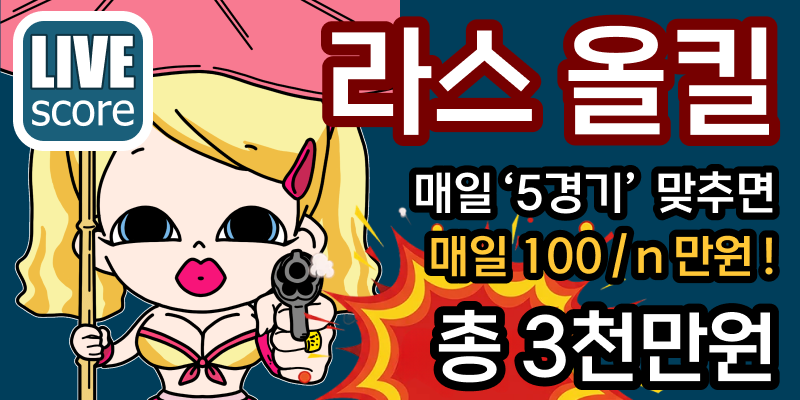
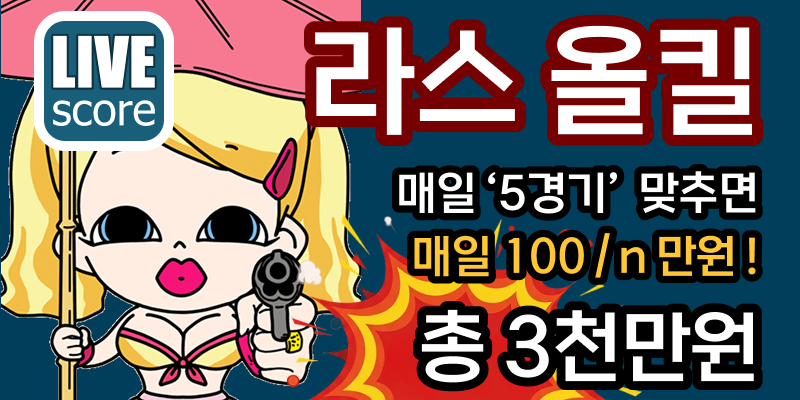
head, CSS, image교체

diff --git a/index.html b/index.html
@@ -13,9 +13,9 @@
     <!-- Roboto Google Fonts -->
     <link href="https://fonts.googleapis.com/css2?family=Roboto:wght@400;700&display=swap" rel="stylesheet">
     
-    <title>LIVE 스코어, 매일 5경기 맞추고 100만원 받자! 올킬 이벤트 참여하기!</title>
-    <meta name="description" content="LIVE스코어 올킬 이벤트에 참여하고 매일매일 경품을 받아가세요! 6월 26일 목요일 3경기 전승 예측하고 경품 받아가세요. LGvs키움, KTvs한화 실시간 진행중.">
-    <meta name="keywords" content="라이브스코어, LIVE스코어, 실시간스코어, 경기중계, 올킬이벤트, 올킬, 스포츠이벤트, 베팅이벤트, 스포츠토토, 토토계산기, 베팅계산기, 야구스코어, 축구스코어, 농구스코어, KBO, 프로야구, KBO 순위, KBO 일정, 배당분석, AI 분석, 경기예측, 승부예측, 스포츠픽, 픽추천, 실시간배당, 배당흐름, 스포츠커뮤니티, 6월 26일, 목요일, 3경기올킬, 키움, LG, 한화, KT, KIA, SSG, 6 26경기, 경기중계, 실시간스코어">
+    <title>LIVE스코어, 매일 ‘5경기’ 맞추면 매일 100/n 만원 !</title>
+    <meta name="description" content="LIVE스코어, 매일 ‘5경기’ 맞추면 매일 100/n 만원 !">
+    <meta name="keywords" content="라이브스코어, LIVE스코어, 실시간스코어, 경기중계, 올킬이벤트, 올킬, 스포츠이벤트, 베팅이벤트, 스포츠토토, 토토계산기, 베팅계산기, 야구스코어, 축구스코어, 농구스코어, KBO, 프로야구, KBO 순위, KBO 일정, 배당분석, AI 분석, 경기예측, 승부예측, 스포츠픽, 픽추천, 실시간배당, 배당흐름, 스포츠커뮤니티, 휴식일이벤트">
 
     <!-- 구조적 데이터 (JSON-LD) -->
     <script type="application/ld+json">
@@ -97,7 +97,7 @@
     <meta property="og:site_name" content="LIVE스코어">
     
     <!-- Twitter Card 메타데이터 -->
-    <meta name="twitter:card" content="summary_large_image">
+    <meta name="twitter:card" content="/image/metaimage.png">
     <meta name="twitter:title" content="LIVE스코어 올킬 이벤트 6월 26일 | 3경기 LGvs키움, KTvs한화 | 실시간 예측">
     <meta name="twitter:description" content="LIVE스코어 올킬 이벤트에 참여하고 매일매일 경품을 받아가세요! 6월 26일 목요일 3경기 전승 예측하고 경품 받아가세요. LGvs키움, KTvs한화 실시간 진행중.">
     <meta name="twitter:image" content="/image/metaimage.png">

diff --git a/css/components/event-title.css b/css/components/event-title.css
@@ -9,7 +9,6 @@
   display: flex;
   align-items: center;
   justify-content: center;
-  
 }
 
 .event-title-section {
@@ -64,7 +63,7 @@
 .event-title-line2,
 .event-title-line3{
   font-size: 36px;
-  filter: drop-shadow(-1px -1px 0 #001a29) drop-shadow(1px -1px 0 #001a29) drop-shadow(-1px 1px 0 #001a29) drop-shadow(1px 1px 0 #001a29) drop-shadow(-1px 0 0 #001a29) drop-shadow(1px 0 0 #001a29) drop-shadow(0 -1px 0 #001a29) drop-shadow(0 1px 0 #001a29);
+  filter: drop-shadow(-2px -2px 0 #000000) drop-shadow(2px -2px 0 #000000) drop-shadow(-2px 2px 0 #000000) drop-shadow(2px 2px 0 #000000) drop-shadow(-2px 0 0 #000000) drop-shadow(2px 0 0 #000000) drop-shadow(0 -2px 0 #000000) drop-shadow(0 2px 0 #000000);
 }
   
 .event-title-line1,
@@ -81,14 +80,14 @@
 
 .event-title-line3 {
   color: var(--gold);
-  /* margin-top: 9px; */
+  margin-top: 9px;
 }
 
 .event-title-line4 {
   color: #FFFFFF;
-  font-size: 48px;
-  filter: drop-shadow(-1px -1px 0 #001a29) drop-shadow(1px -1px 0 #001a29) drop-shadow(-1px 1px 0 #001a29) drop-shadow(1px 1px 0 #001a29) drop-shadow(-1px 0 0 #001a29) drop-shadow(1px 0 0 #001a29) drop-shadow(0 -1px 0 #001a29) drop-shadow(0 1px 0 #001a29);
-  padding-top: 9px;
+  font-size: 46px;
+  filter: drop-shadow(-2px -2px 0 #000000) drop-shadow(2px -2px 0 #000000) drop-shadow(-2px 2px 0 #000000) drop-shadow(2px 2px 0 #000000) drop-shadow(-2px 0 0 #000000) drop-shadow(2px 0 0 #000000) drop-shadow(0 -2px 0 #000000) drop-shadow(0 2px 0 #000000);
+  padding-top: 11px;
 }
 
 .event-fx-image {
@@ -101,11 +100,11 @@
 
 .event-emoticon {
   position: absolute;
-  top: 44px;
-  left: 98px;
+  top: 64px;
+  left: 99px;
   transform: translateX(-50%);
-  width: 240px;
-  height: 240px;
+  width: 198px;
+  height: 220px;
   z-index: 10;
 }
 

diff --git a/js/gamedata.js b/js/gamedata.js
@@ -12,7 +12,7 @@
 
 (function() {
   window.matchData = {
-    /*"2025-07-01": {
+    "2025-07-01": {
       eventStatus: "EVENT_CANCELLED_MULTI_GAMES",
       totalParticipants: 12000,
       winners: 0,
@@ -475,8 +475,8 @@
           eventResult: "success"
         }
       ]
-    },*/
-    "2025-08-13": {
+    },
+    "2025-08-04": {
       eventStatus: "PENDING_USER_NOT_SELECTED",
       totalParticipants: 21000,
       winners: null,
@@ -527,7 +527,7 @@
           userSelection: "none", league: "KBO퓨쳐스"
         }
       ]
-    }/*,
+    },
     "2025-08-06": {
       eventStatus: "PENDING_USER_NOT_SELECTED",
       totalParticipants: 22000,
@@ -595,9 +595,9 @@
           userSelection: "none", league: "아시안아메키란게이트파이널"
         }
       ]
-    },*/,
-    "2025-08-12": {
-      eventStatus: "COMPLETED_USER_SUCCESS",
+    },
+    "2025-08-13": {
+      eventStatus: "PENDING_USER_NOT_SELECTED",
       totalParticipants: 11000,
       winners: 0,
       games: [
@@ -639,7 +639,7 @@
         }
       ]
     },
-    "2025-08-14": {
+    "2025-08-15": {
       eventStatus: "NO_GAMES_EVENT_DISABLED",
       totalParticipants: 9000,
       winners: 0,

diff --git a/css/components/my-prize.css b/css/components/my-prize.css
@@ -89,6 +89,7 @@
   color: #121212;
   font-size: 30px;
   width: 100%;
+  height: 70px;
   border-radius: var(--radius-lg);
   padding: 10px 16px 15px 16px;
   border: none;
@@ -290,11 +291,11 @@
   font-weight: 400;
   border-radius: 17px;
   width: 98px;
-  height: 34px;
+  height: 35px;
   margin-left: 14px;
   margin-bottom: 2px;
   border: none;
-  padding-bottom: 3px;
+  padding: 0 4px 3px 0px;
   letter-spacing: -1px;
 }
 

diff --git a/js/sections/eventTitle.js b/js/sections/eventTitle.js
@@ -50,11 +50,7 @@ function initEventTitleSection() {
       alt="Event FX"
       class="event-fx-image"
     />
-    <img 
-      src="/image/event-emoticon.gif"
-      alt="Event Emoticon"
-      class="event-emoticon"
-    />
+    <img src="/image/event-emoticon.gif" alt="Event Emoticon" class="event-emoticon"/>
   `;
 
   $('#event-title-section').html(sectionHtml);
